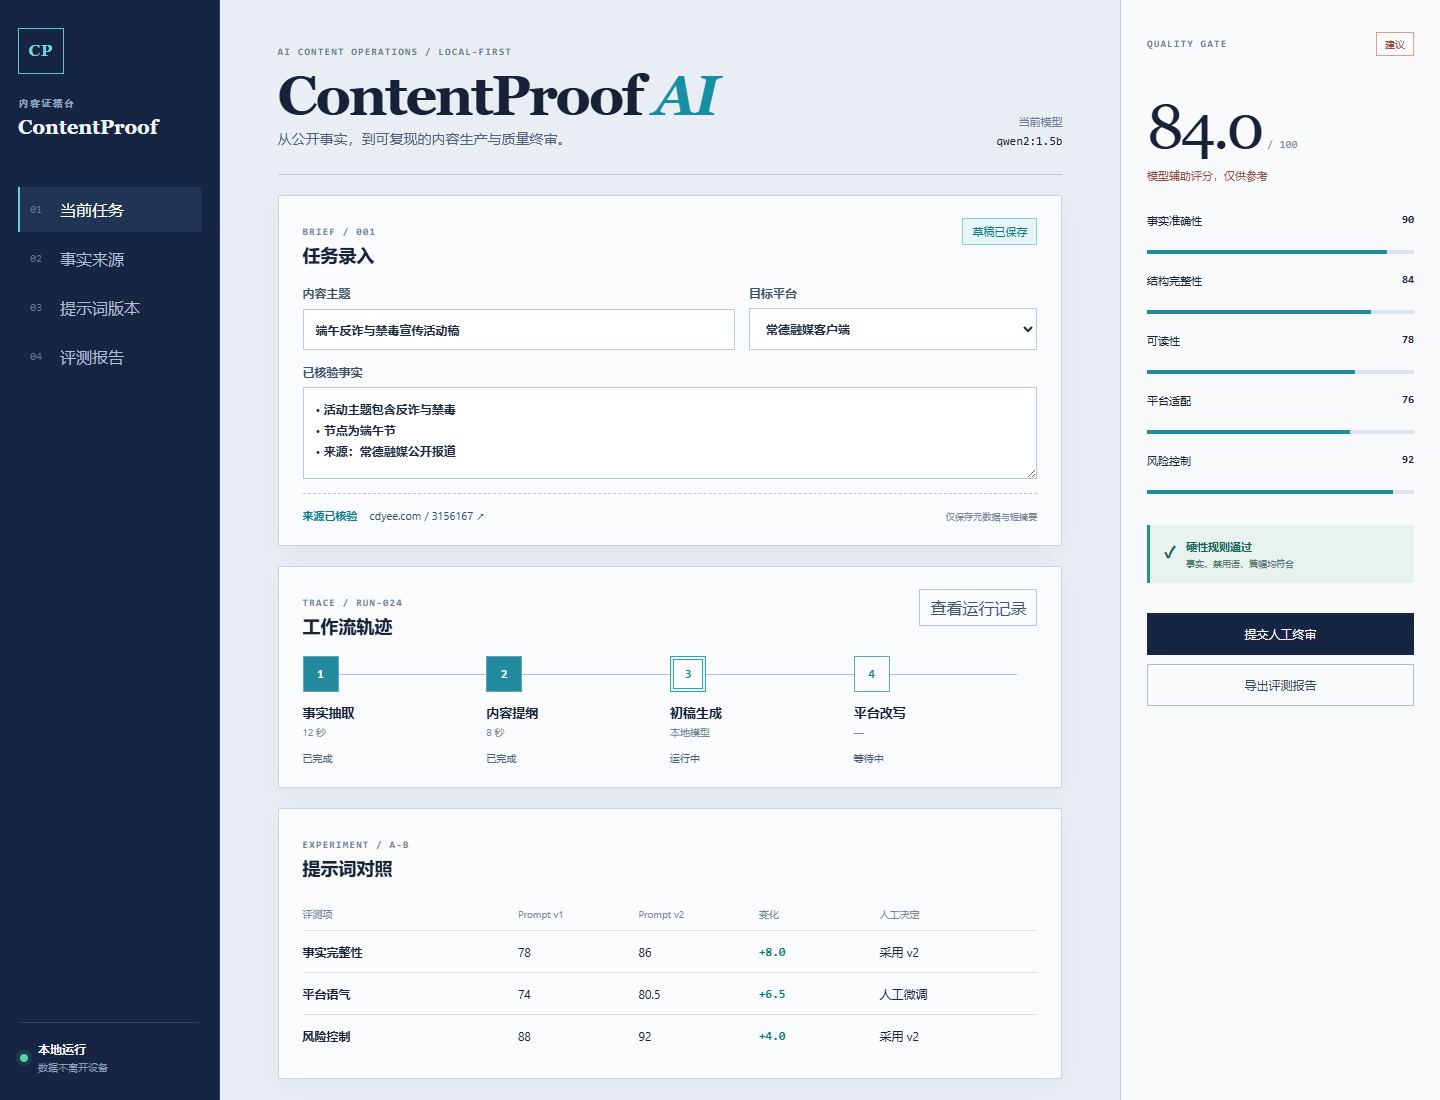
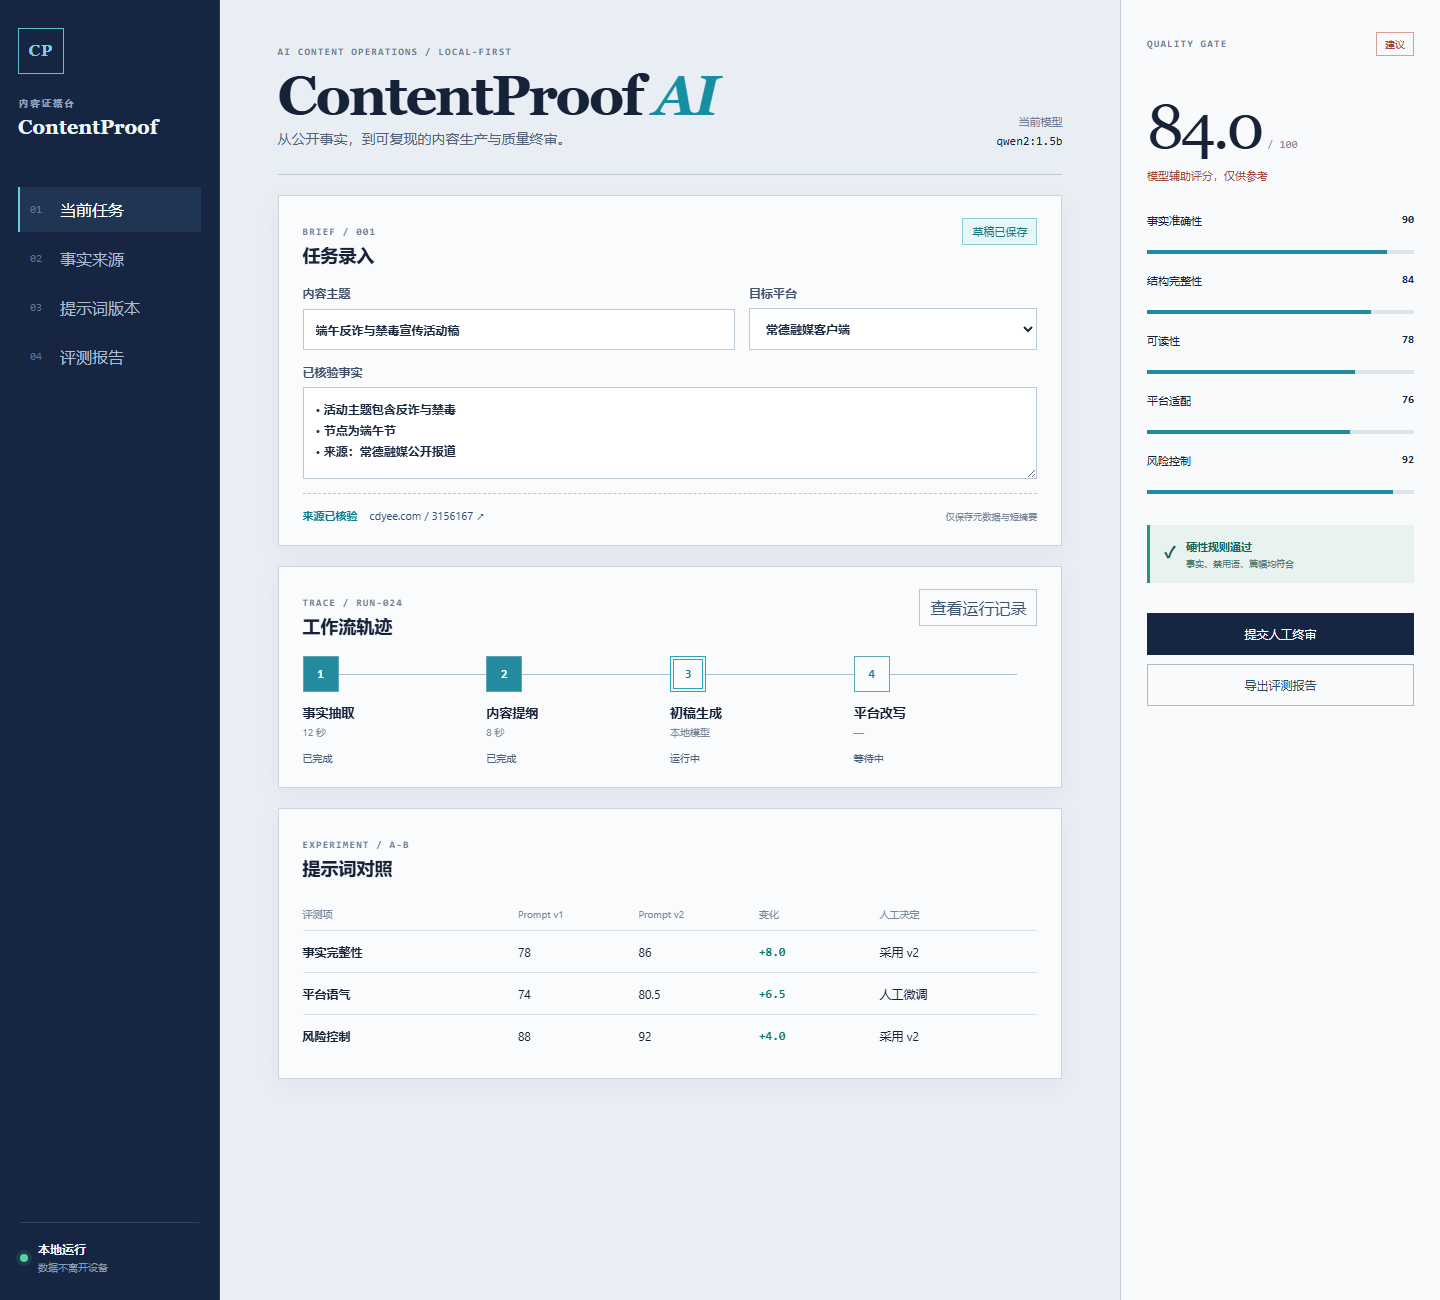
fix: complete responsive portfolio previews

diff --git a/frontend/src/styles.css b/frontend/src/styles.css
@@ -166,17 +166,26 @@ progress::-moz-progress-bar { background: #238b9d; }
   .sidebar { position: static; width: 100%; height: auto; padding: 18px; }
   .sidebar nav { grid-template-columns: repeat(2, 1fr); margin-top: 20px; }
   .runtime { display: none; }
-  .workspace { padding: 26px 16px; }
-  .workspace { width: 100%; max-width: 100vw; }
-  .editor-card, .workflow-card, .comparison-card { width: calc(100% - 16px); }
+  .workspace { width: calc(100vw - 16px); max-width: none; padding: 26px 16px; }
+  .editor-card, .workflow-card, .comparison-card { width: auto; }
   .page-header, .field-grid { display: block; }
   .section-heading { flex-wrap: wrap; gap: 12px; }
-  .status-pill, .ghost-button { max-width: 100%; }
+  .status-pill { display: none; }
+  .ghost-button { width: 100%; max-width: 100%; }
   .header-meta { margin-top: 18px; text-align: left; }
   .workflow-line { grid-template-columns: repeat(2, 1fr); gap: 24px; }
   .source-strip { grid-template-columns: 1fr; }
-  .quality-panel { height: auto; }
-  .comparison-card { width: 100%; min-width: 0; max-width: 100%; overflow-x: auto; }
+  .quality-panel { width: calc(100vw - 16px); height: auto; padding-right: 26px; }
+  .quality-header { justify-content: flex-start; gap: 16px; }
+  .comparison-card { min-width: 0; overflow: hidden; }
+  .comparison-table { min-width: 0; }
+  .comparison-head { display: none; }
+  .comparison-row:not(.comparison-head) {
+    grid-template-columns: 1fr 1fr;
+    gap: 8px 18px;
+    padding: 12px 0;
+  }
+  .comparison-row:not(.comparison-head) strong { grid-column: 1 / -1; }
 }
 @media (prefers-reduced-motion: no-preference) {
   .editor-card, .workflow-card, .comparison-card { animation: enter .45s ease both; }
